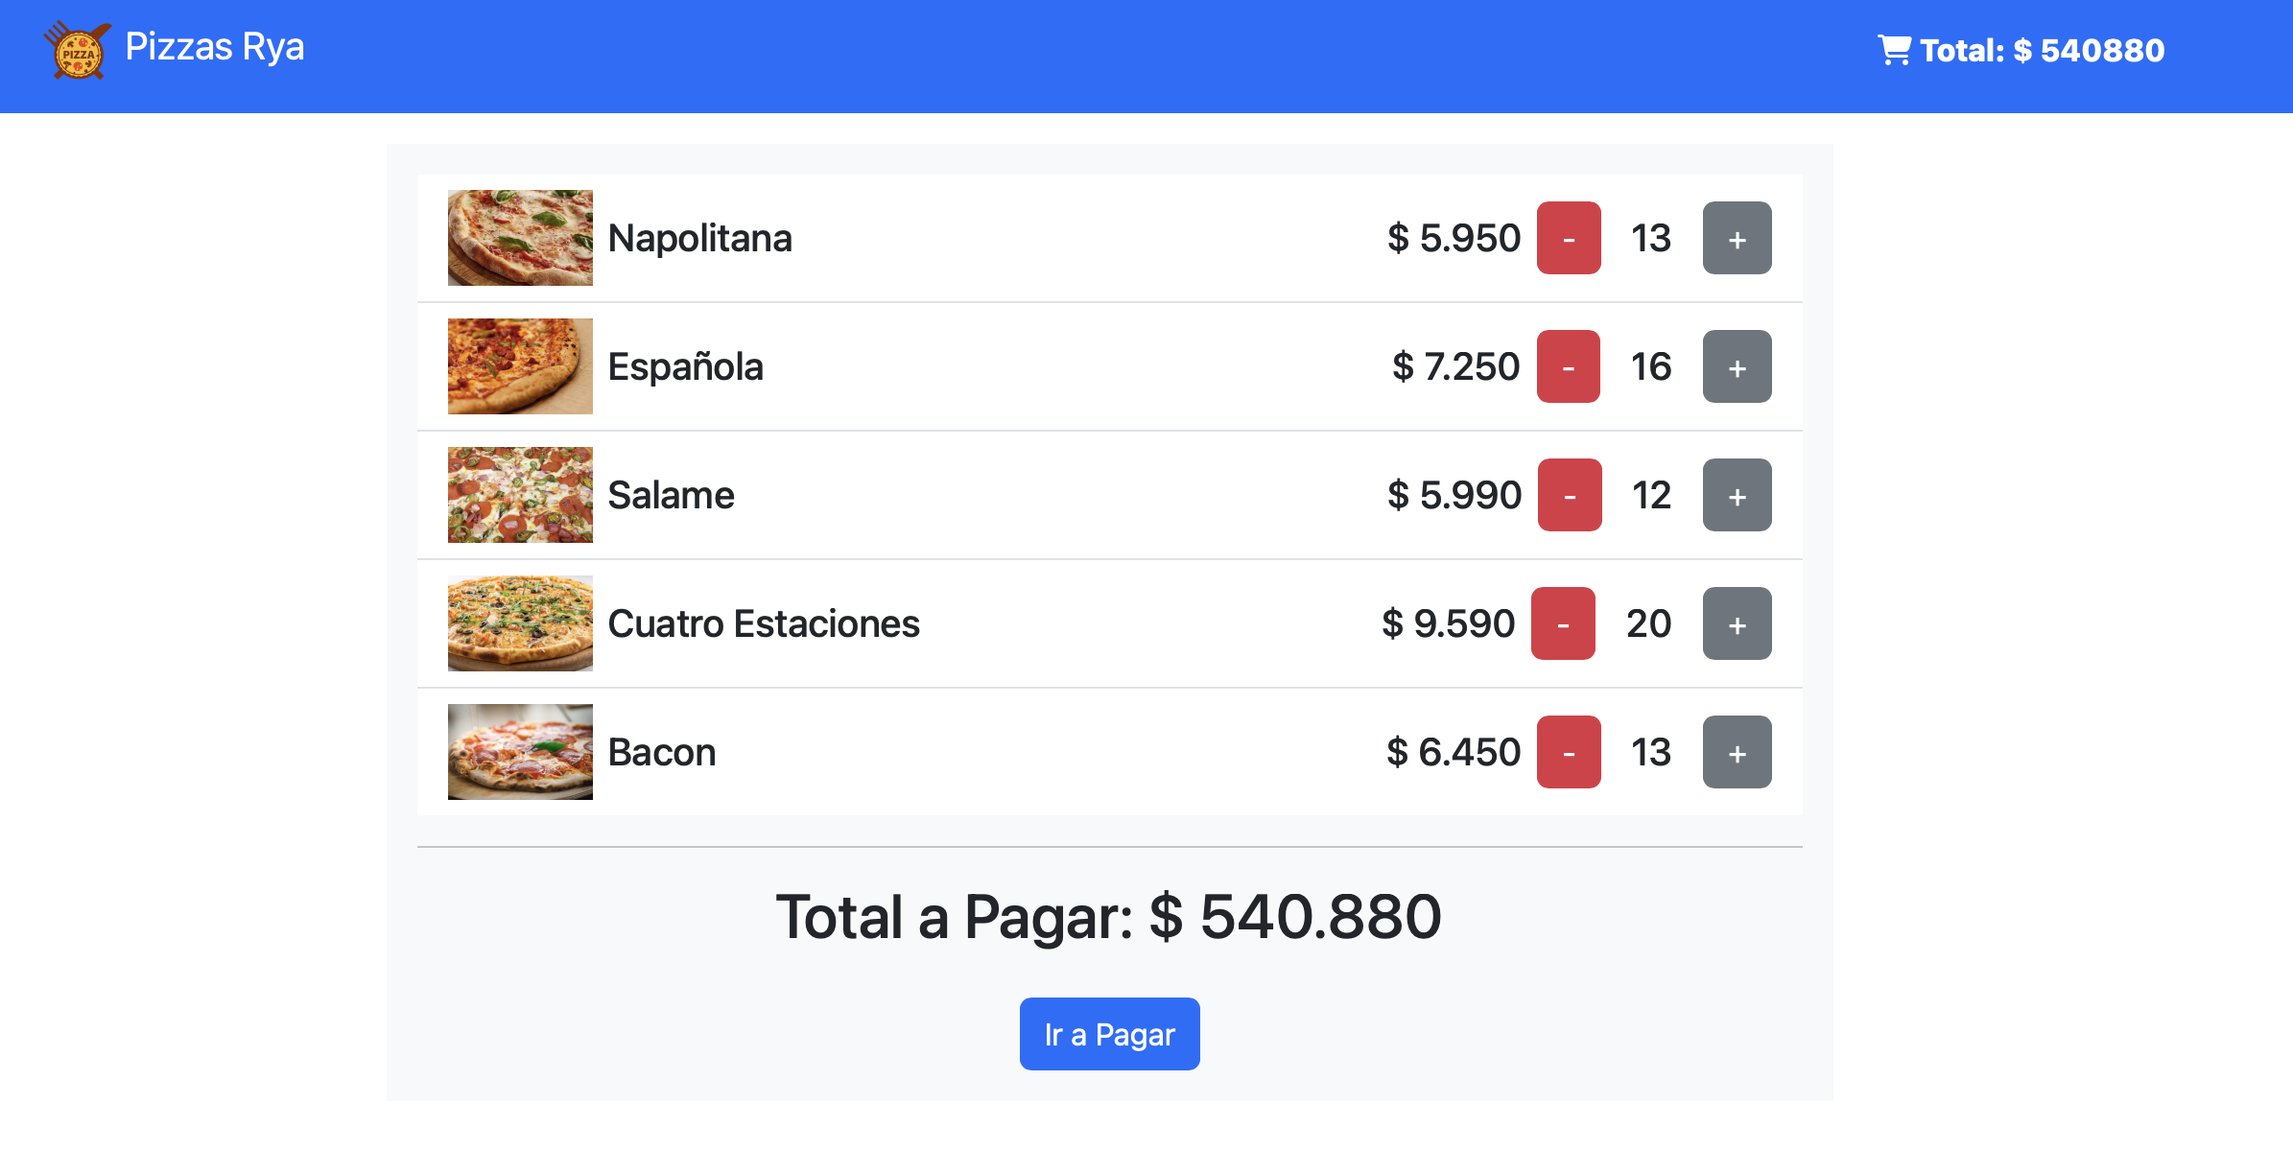
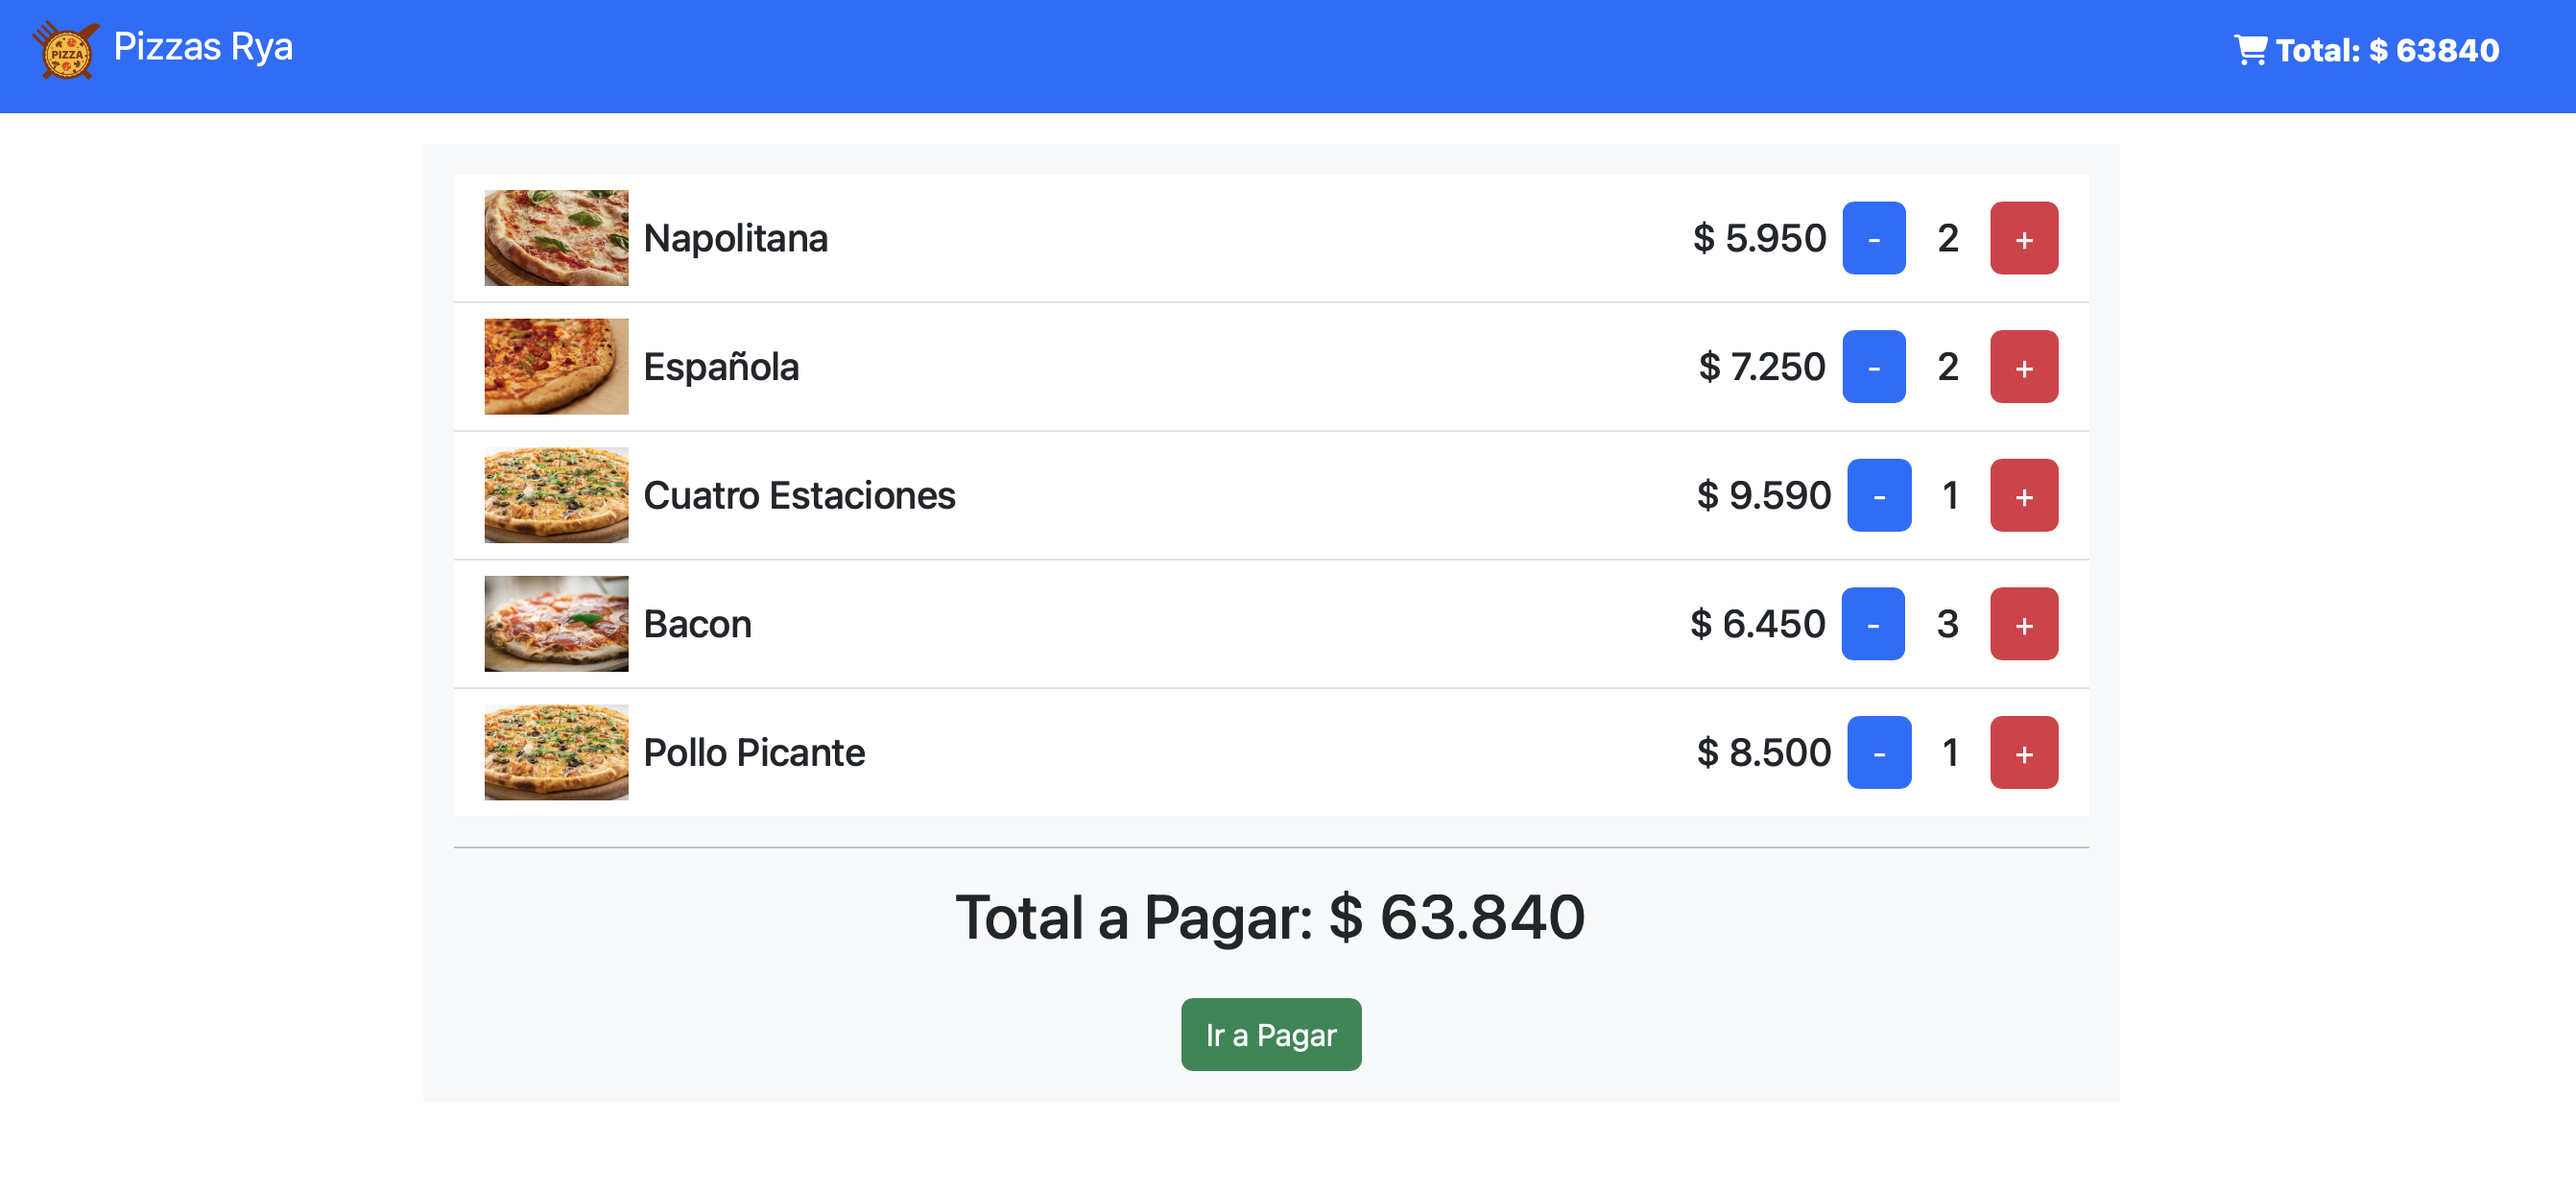
add: se agrega vista de compra exitosa, con funcion de limpiar

diff --git a/src/views/Carrito.jsx b/src/views/Carrito.jsx
@@ -35,9 +35,9 @@ const Carrito = () => {
                       <img height='50px' src={pizza.img} />
                       <h5 className='ps-2 m-0 text-capitalize'>{pizza.name}</h5>
                       <h5 className='ms-auto pe-2 m-0'>$ {(pizza.price / 1000).toFixed(3)}</h5>
-                      <button className='btn btn-danger' onClick={() => removePizza(pizza.id)}>-</button>
+                      <button className='btn btn-primary' onClick={() => removePizza(pizza.id)}>-</button>
                       <h5 className='px-3 m-0 text-center'>{pizza.cantidad}</h5>
-                      <button className='btn btn-secondary' onClick={() => addPizza(pizza.id)}>+</button>
+                      <button className='btn btn-danger' onClick={() => addPizza(pizza.id)}>+</button>
                     </div>
                   </li>
                   )
@@ -48,7 +48,7 @@ const Carrito = () => {
           <div className='text-center'>
             <h2 className='pb-3'>Total a Pagar: $ {(total / 1000).toFixed(3)}</h2>
             <div className='d-flex justify-content-center column-gap-5'>
-              <button type='button' className='btn btn-primary'>Ir a Pagar</button>
+              <Link type='button' className='btn btn-success' to='/compra'>Ir a Pagar</Link>
             </div>
           </div>
         </div>

diff --git a/src/contexts/PizzaContext.jsx b/src/contexts/PizzaContext.jsx
@@ -36,6 +36,14 @@ const PizzaContextProvider = ({ children }) => {
     setTotal(newTotal)
   }
 
+  const allClean = () => {
+    const updatedCarroPizzas = carroPizzas.map((pizza) => {
+      return { ...pizza, cantidad: 0 }
+    })
+    setCarroPizzas(updatedCarroPizzas)
+    setTotal(0)
+  }
+
   const getData = async () => {
     try {
       const data = await fetch(URL).then(res => res.json())
@@ -52,7 +60,7 @@ const PizzaContextProvider = ({ children }) => {
   }, [])
 
   return (
-    <PizzaContext.Provider value={{ pizzas, setPizzas, carroPizzas, setCarroPizzas, total, setTotal, addPizza, removePizza }}>
+    <PizzaContext.Provider value={{ pizzas, carroPizzas, total, addPizza, removePizza, allClean }}>
       {children}
     </PizzaContext.Provider>
   )

diff --git a/src/routes/index.jsx b/src/routes/index.jsx
@@ -1,5 +1,5 @@
 import { Routes, Route } from 'react-router-dom'
-import { Pizza, Home, NotFound, Carrito } from '../views'
+import { Pizza, Home, NotFound, Carrito, Compra } from '../views'
 
 const Rutas = () => {
   return (
@@ -8,6 +8,7 @@ const Rutas = () => {
         <Route path='/' element={<Home />} />
         <Route path='/pizza/:name' element={<Pizza />} />
         <Route path='/carrito' element={<Carrito />} />
+        <Route path='/compra' element={<Compra />} />
         <Route path='*' element={<NotFound />} />
       </Routes>
     </>

diff --git a/src/views/Compra.jsx b/src/views/Compra.jsx
@@ -1,0 +1,18 @@
+import { useContext } from 'react'
+import { PizzaContext } from '../contexts/PizzaContext'
+import { Link } from 'react-router-dom'
+
+const Compra = () => {
+  const { allClean } = useContext(PizzaContext)
+  return (
+    <>
+      <div className='image-container'>
+        <img src='../src/assets/images/compra-confirmada.jpg' alt='Compra Realizada' />
+        <Link className='btn btn-danger' to='/' onClick={() => allClean()}>¡Realizar Nuevo Pedido!</Link>
+      </div>
+
+    </>
+  )
+}
+
+export default Compra

diff --git a/src/views/index.jsx b/src/views/index.jsx
@@ -2,3 +2,4 @@ export { default as Home } from './Home'
 export { default as Pizza } from './Pizza'
 export { default as NotFound } from './NotFound'
 export { default as Carrito } from './Carrito'
+export { default as Compra } from './Compra'

diff --git a/README.md b/README.md
@@ -18,5 +18,7 @@ Para la estética de esta aplicación contará con algunas imágenes de referenc
 ![Imagen del Carro de Compras](src/assets/readme/vistaCarro.png)
 ### Imagen del Carro Vacio
 ![Imagen del Carro Vacio](src/assets/readme/carroVacio.png)
+### Imagen de Compras Exitosa
+![Imagen del Carro de Compras](src/assets/readme/vistaCompra.png)
 ### Imagen del error 404
 ![Imagen del error 404](src/assets/readme/404.png)
